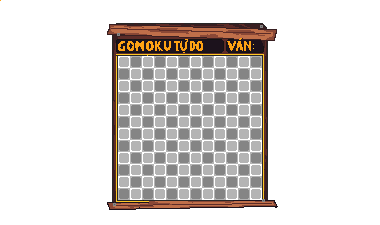
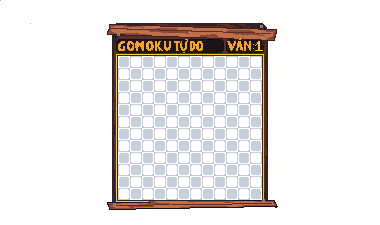
update caro board

Changed region(s): [[0.2895, 0.1867, 0.6947, 0.9022]]

diff --git a/Caro_Project/View.cpp b/Caro_Project/View.cpp
@@ -560,13 +560,13 @@ int modeChoosing(sf::RenderWindow& window) {
 	card3U.setPosition(card3CenterX, card3CenterY);
 
 	// OK Button
-	float okButtonScale = 3.68f;
+	float okButtonScale = 4.32222f;
 	okButtonS.setScale(okButtonScale, okButtonScale);
 	okButton_Dark.setScale(okButtonScale, okButtonScale);
 
 	// Tính toán vị trí giữa màn hình
 	float okButtonX = 790.0f;
-	float okButtonY = 580.0f;
+	float okButtonY = 700.0f;
 
 	int cardChoice = 1;
 	int row = 0; // 0 = cards, 1 = OK button
@@ -979,21 +979,37 @@ void GotoXY(int x, int y) {
 }
 
 void DrawBoard(sf::RenderWindow& window, int n, int result) {
-	sf::Texture boardT, xTexture, oTexture, bgTexture, barT;
+	sf::Texture board1T, xTexture, oTexture, bgTexture, barT, board2T, board3T;
 	sf::Sprite boardS, xSprite, oSprite, bgSprite, barS;
 
-	boardT.loadFromFile("Assets/playing/board.png");
+	board1T.loadFromFile("Assets/playing/board.png");
+	board3T.loadFromFile("Assets/playing/board_renju.png");
+	board2T.loadFromFile("Assets/playing/board_standard.png");
 	xTexture.loadFromFile("Assets/playing/X_letter.png");
 	oTexture.loadFromFile("Assets/playing/O_letter.png");
 	barT.loadFromFile("Assets/background/text_board.png");
 
-	string bgPath = "Assets/background/board_background" + to_string(_backgroundForBoard) + ".png";
+	string bgPath = "Assets/background/board_background" + to_string(_backgroundBoard) + ".png";
 	bgTexture.loadFromFile(bgPath);
 
 	bgSprite.setTexture(bgTexture);
 	bgSprite.setScale(3.8f, 3.5f);
 
-	boardS.setTexture(boardT);
+	switch (_backgroundBoard) {
+	case 1:
+		boardS.setTexture(board1T);
+		break;
+	case 2:
+		boardS.setTexture(board2T);
+		break;
+	case 3:
+		boardS.setTexture(board3T);
+		break;
+	default:
+		boardS.setTexture(board1T); 
+		break;
+	}
+
 	xSprite.setTexture(xTexture);
 	oSprite.setTexture(oTexture);
 	barS.setTexture(barT);

diff --git a/Caro_Project/main.cpp b/Caro_Project/main.cpp
@@ -26,15 +26,15 @@ int main() {
             switch (choice) {
             case 2:
                 rule = GameRule::FREESTYLE;
-                _backgroundForBoard = 1;
+                _backgroundBoard = 1;
                 break;
             case 3:
                 rule = GameRule::STANDARD;
-                _backgroundForBoard = 2;
+                _backgroundBoard = 2;
                 break;
             case 4:
                 rule = GameRule::BLOCKED_TWO_ENDS;
-                _backgroundForBoard = 3;
+                _backgroundBoard = 3;
                 break;
             default: continue;
             }

diff --git a/Caro_Project/Globals.h b/Caro_Project/Globals.h
@@ -13,6 +13,6 @@ extern int _COMMAND;
 extern int _X, _Y;
 extern int _currentRow;  
 extern int _currentCol;
-extern int _backgroundForBoard;
+extern int _backgroundBoard;
 
 #endif

diff --git a/Caro_Project/Globals.cpp b/Caro_Project/Globals.cpp
@@ -9,5 +9,5 @@ int _Y = 0;
 
 int _currentRow = 0;
 int _currentCol = 0;
-int _backgroundForBoard = 1;
+int _backgroundBoard = 1;
 
